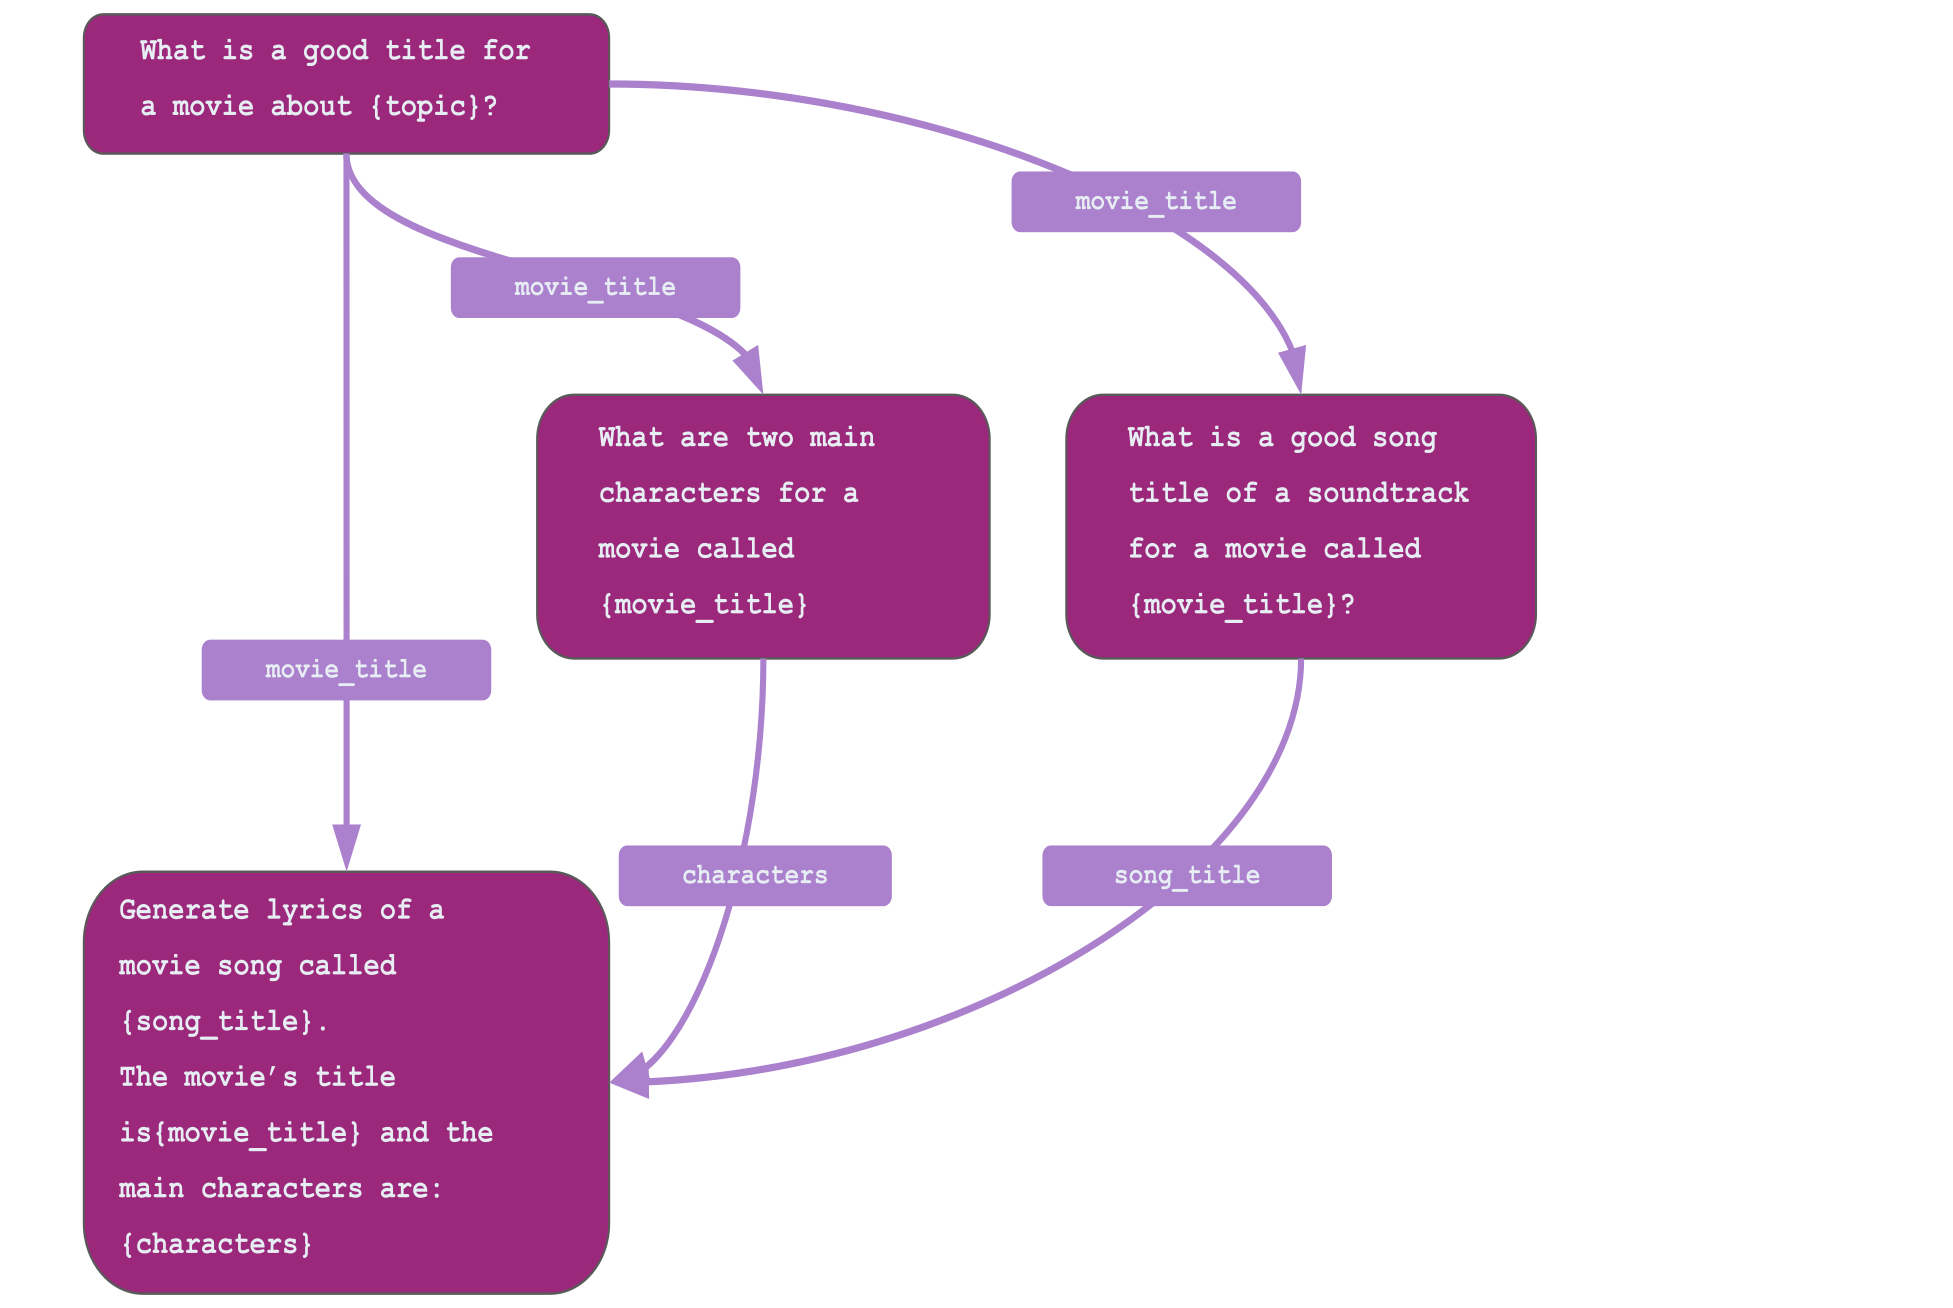
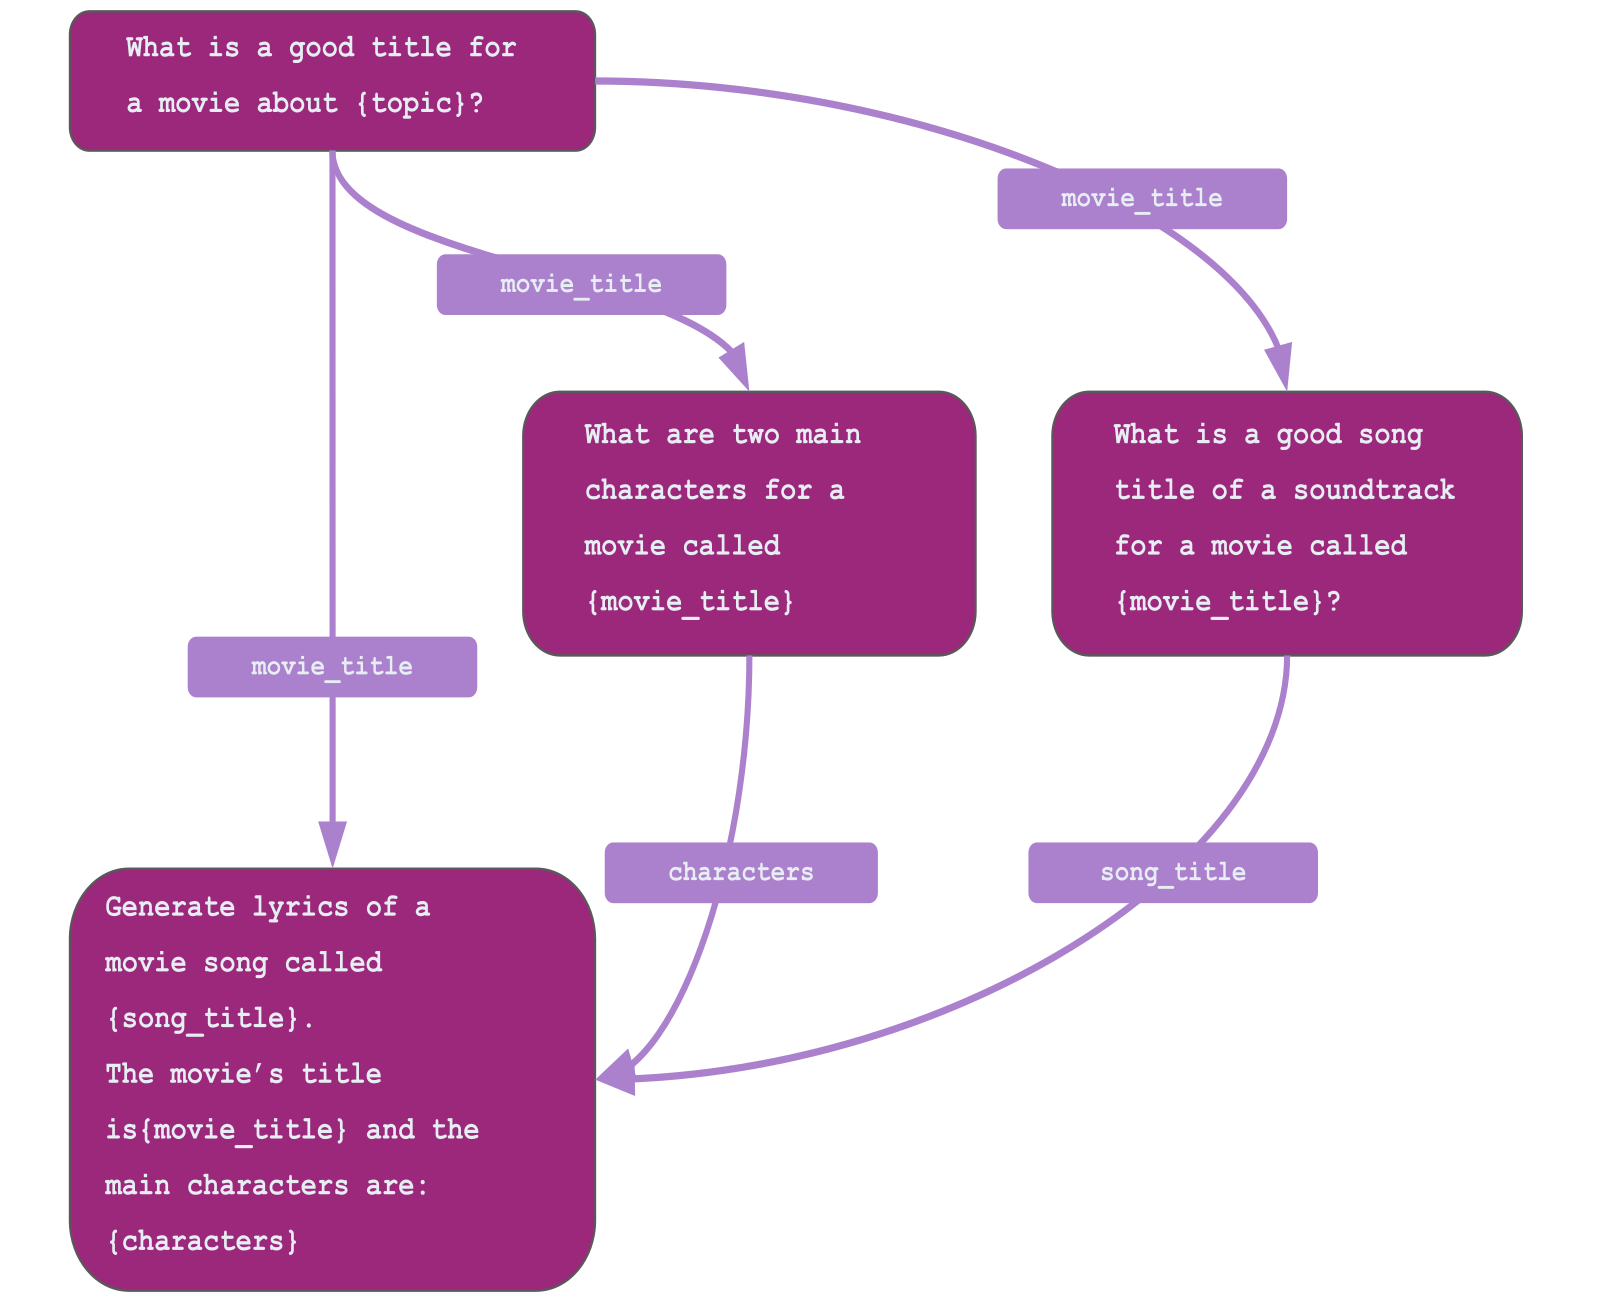
fixing complex_flows png sizing, updating copy in docs to match README, minor changes to README

diff --git a/docs/index.md b/docs/index.md
@@ -20,12 +20,23 @@ Substack: [https://llmflows.substack.com/](https://llmflows.substack.com/)<br/>
 ***
 
 ## About
-LLMFlows is a framework for building simple, explicit, and transparent LLM applications.
+LLMFlows is a framework for building simple, explicit, and transparent LLM(Large Language Model) applications such as chatbots, question-answering systems, and agents.
+
+At its core, LLMFlows provides a minimalistic set of abstractions that allow you to utilize LLMs and vector stores and build well-structured and explicit apps that don't have hidden prompts or LLM calls. LLM Flows ensures complete transparency for each component, making monitoring, maintenance, and debugging easy. 
 
 ## Installation
 ```
 pip install llmflows
 ```
+
+## ▶ Live Demo
+Check out [LLM-99](https://llm-99.vercel.app/) - a demo app that uses LLMs to explain 
+superconductors in simple terms. The app is built with LLMFlows, and FastAPI and uses 
+Pinecone to store document embeddings created from Wikipedia articles. You can find 
+the source code for this demo app and other examples in our 
+[examples folder](https://github.com/stoyan-stoyanov/llmflows/tree/main/examples/llmflows_in_fastapi/superconductor).
+
+![LLM-99](https://github.com/stoyan-stoyanov/llmflows/blob/main/docs/llm99_2_small.gif)
 
 ## Getting Started
 

diff --git a/README.md b/README.md
@@ -22,8 +22,6 @@ LLMFlows is a framework for building simple, explicit, and transparent LLM(Large
 At its core, LLMFlows provides a minimalistic set of abstractions that allow you to utilize LLMs and vector stores and build well-structured and explicit apps that don't have hidden prompts or LLM calls. LLM Flows ensures complete transparency for each component, making monitoring, maintenance, and debugging easy. 
 
 
-
-
 ## 📦 Installation
 ```
 pip install llmflows
@@ -45,7 +43,7 @@ We aim to help users have full transparency on their LLM-powered apps by providi
 traceable flows and complete information for each app component, making it easy to 
 monitor, maintain, and debug.
 
-## ▶ See it in action
+## ▶ Live Demo
 Check out [LLM-99](https://llm-99.vercel.app/) - a demo app that uses LLMs to explain 
 superconductors in simple terms. The app is built with LLMFlows, and FastAPI and uses 
 Pinecone to store document embeddings created from Wikipedia articles. You can find 
